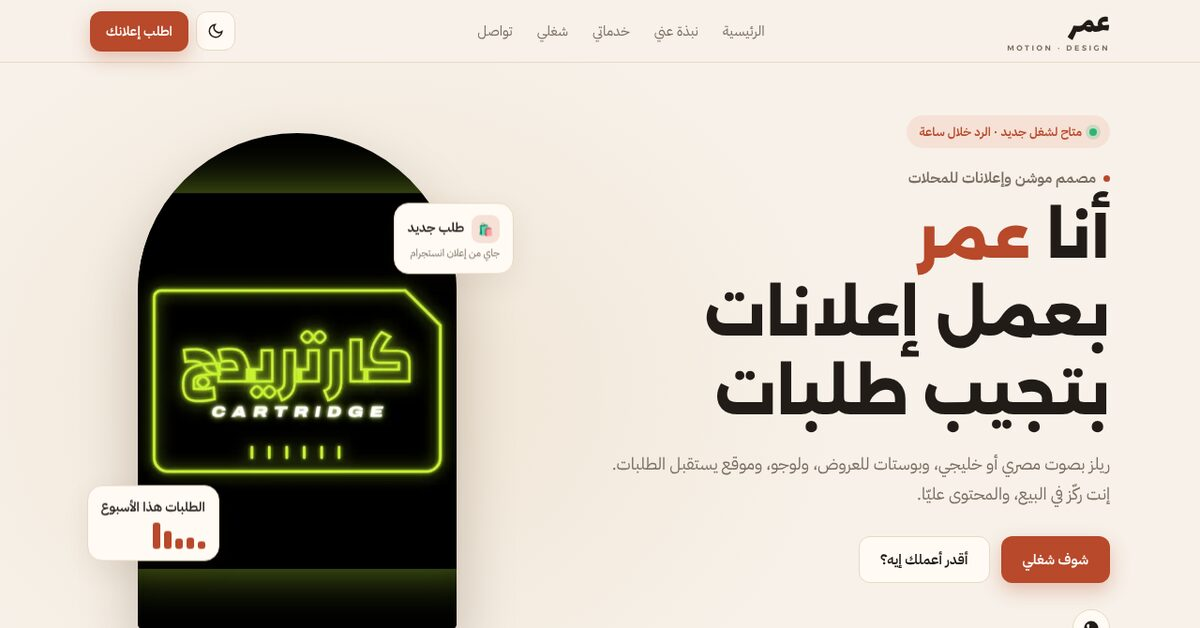
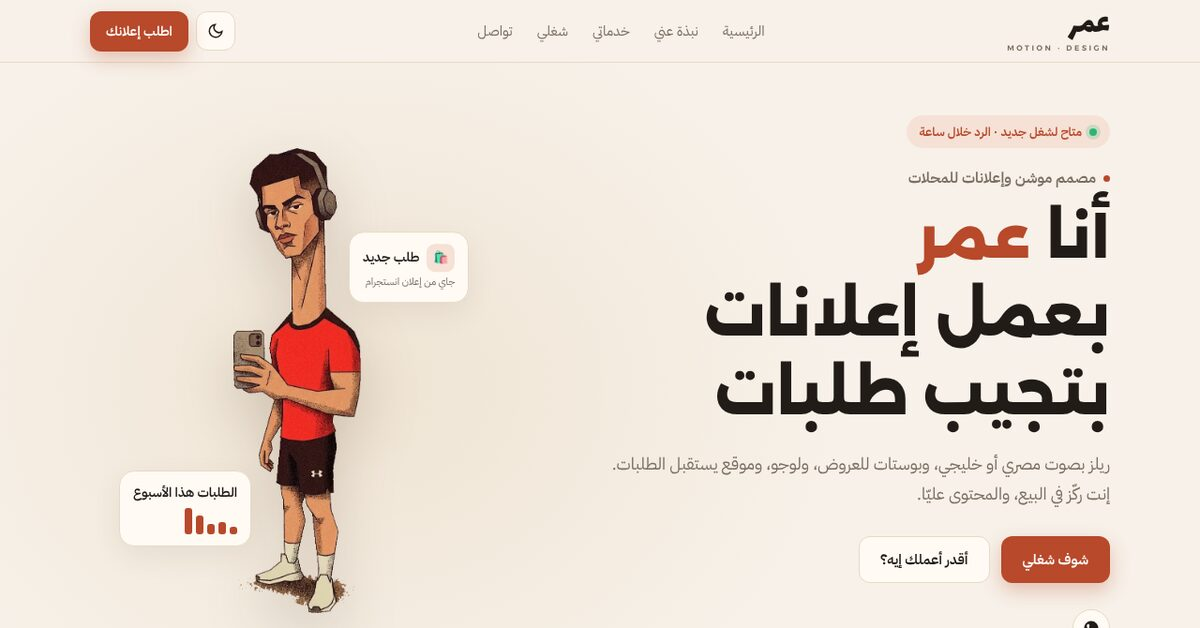
Hero illustration, remove Cartridge, GSAP scroll animations
Claude-Session: https://claude.ai/code/session_019beVw9BJW4JLDpa1uNJkmd

Changed region(s): [[0.0617, 0.2118, 0.4317, 1.0]]

diff --git a/index.html b/index.html
@@ -71,6 +71,7 @@ nav .wrap{display:flex;align-items:center;justify-content:space-between;height:6
 .role{color:var(--mute);font-weight:600;margin-bottom:6px;display:flex;align-items:center;gap:8px}
 .role::before{content:"";width:7px;height:7px;border-radius:50%;background:var(--acc)}
 .hero h1{font-size:clamp(36px,7.5vw,64px);margin-bottom:18px}
+.hero h1 .ln{display:inline-block}
 .hero h1 em{font-style:normal;color:var(--acc)}
 .hero p.lead{color:var(--mute);font-size:clamp(16px,2.3vw,18px);max-width:560px;margin-bottom:28px}
 .cta{display:flex;flex-wrap:wrap;gap:12px}
@@ -79,17 +80,17 @@ nav .wrap{display:flex;align-items:center;justify-content:space-between;height:6
 .social svg{width:18px;height:18px}
 
 .visual{position:relative;justify-self:center;width:min(340px,82vw)}
-.arch{aspect-ratio:9/14;border-radius:999px 999px 28px 28px;overflow:hidden;background:#111;box-shadow:0 30px 60px rgba(60,30,10,.25)}
-.arch video{width:100%;height:100%;object-fit:cover}
+.me{display:flex;justify-content:center;height:clamp(420px,62vh,600px);will-change:transform}
+.me img{height:100%;width:auto;filter:drop-shadow(0 24px 30px rgba(60,30,10,.18))}
 .float{position:absolute;background:var(--card);border:1px solid var(--line);border-radius:16px;box-shadow:var(--shadow);padding:12px 14px;font-size:13px;line-height:1.5}
 .float b{display:block;font-size:14px}
-.f1{top:16%;right:-18%;animation:bob 5s ease-in-out infinite}
-.f2{bottom:12%;left:-16%;animation:bob 6s ease-in-out infinite reverse}
+.f1{top:20%;right:-4%}
+.f2{bottom:16%;left:-6%}
 .f1 .dot{display:inline-grid;place-items:center;width:30px;height:30px;border-radius:9px;background:var(--acc2);margin-left:8px;vertical-align:middle}
 .f2 .bars{display:flex;gap:4px;align-items:end;height:28px;margin-top:6px}
 .f2 .bars span{width:8px;border-radius:3px;background:var(--acc)}
 @keyframes bob{50%{transform:translateY(-10px)}}
-@media(max-width:480px){.f1{right:-6%}.f2{left:-6%}}
+@media(max-width:480px){.f1{right:0}.f2{left:0}}
 
 /* about */
 .about{display:grid;grid-template-columns:1.1fr .9fr;gap:48px;align-items:start}
@@ -159,14 +160,8 @@ nav .wrap{display:flex;align-items:center;justify-content:space-between;height:6
 .stats b{display:block;font:800 36px/1.2 Alexandria;color:var(--acc)}
 .stats span{color:var(--mute);font-size:14px}
 
-.arch.neon{background:#000;display:grid;place-items:center}
-.arch.neon img{width:118%;max-width:none;filter:drop-shadow(0 0 18px rgba(200,255,60,.35));animation:glow 3s ease-in-out infinite}
-@keyframes glow{50%{filter:drop-shadow(0 0 32px rgba(200,255,60,.6))}}
 .proj.feature{margin-top:18px}
 .projects{margin-top:32px}
-.logos3{display:grid;grid-template-columns:repeat(4,1fr);gap:14px;margin-top:14px}
-.logos3 img{border-radius:18px;background:#000;aspect-ratio:1;object-fit:cover}
-@media(max-width:700px){.logos3{grid-template-columns:repeat(2,1fr);gap:10px}}
 /* contact */
 .contact{display:grid;grid-template-columns:.9fr 1.1fr;gap:40px;background:var(--card);border:1px solid var(--line);border-radius:24px;padding:36px;box-shadow:var(--shadow)}
 @media(max-width:860px){.contact{grid-template-columns:1fr;padding:24px;gap:24px}}
@@ -209,20 +204,20 @@ footer p{width:100%;font-size:13px;opacity:.75;border-top:1px solid rgba(255,255
 <header class="hero">
   <div class="wrap">
     <div>
-      <span class="pill"><i></i>متاح لشغل جديد · الرد خلال ساعة</span>
-      <div class="role">مصمم موشن وإعلانات للمحلات</div>
-      <h1>أنا <em>عمر</em><br>بعمل إعلانات بتجيب طلبات</h1>
-      <p class="lead">ريلز بصوت مصري أو خليجي، وبوستات للعروض، ولوجو، وموقع يستقبل الطلبات. إنت ركّز في البيع، والمحتوى عليّا.</p>
-      <div class="cta">
+      <span class="pill hx"><i></i>متاح لشغل جديد · الرد خلال ساعة</span>
+      <div class="role hx">مصمم موشن وإعلانات للمحلات</div>
+      <h1 class="hx"><span class="ln">أنا <em>عمر</em></span><br><span class="ln">بعمل إعلانات</span><br><span class="ln">بتجيب طلبات</span></h1>
+      <p class="lead hx">ريلز بصوت مصري أو خليجي، وبوستات للعروض، ولوجو، وموقع يستقبل الطلبات. إنت ركّز في البيع، والمحتوى عليّا.</p>
+      <div class="cta hx">
         <a class="btn btn-acc" href="#work">شوف شغلي</a>
         <a class="btn btn-line" href="#services">أقدر أعملك إيه؟</a>
       </div>
-      <div class="social">
+      <div class="social hx">
         <a data-wa href="#" aria-label="واتساب"><svg><use href="#wa"/></svg></a>
       </div>
     </div>
     <div class="visual">
-      <div class="arch neon"><img src="m/cart-e.webp" alt="لوجو كارتريدج"></div>
+      <div class="me"><img src="m/me.webp" alt="عمر"></div>
       <div class="float f1"><span class="dot">🛍</span><b style="display:inline">طلب جديد</b><br><small style="color:var(--mute)">جاي من إعلان انستجرام</small></div>
       <div class="float f2"><b>الطلبات هذا الأسبوع</b><div class="bars"><span style="height:30%"></span><span style="height:45%"></span><span style="height:40%"></span><span style="height:70%"></span><span style="height:100%"></span></div></div>
     </div>
@@ -240,9 +235,8 @@ footer p{width:100%;font-size:13px;opacity:.75;border-top:1px solid rgba(255,255
     </div>
     <div class="timeline reveal">
       <div><div><b>طيف للعطور</b><small>ريلز، بوستات، لوجو، وموقع متجر كامل</small></div><span>01</span></div>
-      <div><div><b>كارتريدج</b><small>لوجو وهوية لمحل ألعاب فيديو</small></div><span>02</span></div>
-      <div><div><b>إعلانات بصوت</b><small>صوت مصري وسعودي، ومزيكا ومؤثرات</small></div><span>03</span></div>
-      <div><div><b>متاح دلوقتي</b><small>لمحلات العطور والكافيهات والمطاعم والبراندات الصغيرة</small></div><span>04</span></div>
+      <div><div><b>إعلانات بصوت</b><small>صوت مصري وسعودي، ومزيكا ومؤثرات</small></div><span>02</span></div>
+      <div><div><b>متاح دلوقتي</b><small>لمحلات العطور والكافيهات والمطاعم والبراندات الصغيرة</small></div><span>03</span></div>
     </div>
   </div>
 </section>
@@ -314,18 +308,6 @@ footer p{width:100%;font-size:13px;opacity:.75;border-top:1px solid rgba(255,255
         <div class="chips"><span>موبايل أولًا</span><span>عربي وإنجليزي</span><span>استضافة ببلاش</span></div>
         <a class="link" href="https://omaraboeldahab09.github.io/perfumebytaif/" target="_blank" rel="noopener">افتح الموقع ↗</a></div>
     </article>
-    <article class="proj feature reveal">
-      <div class="media" style="background:#000"><img src="m/logo-cartridge.webp" alt="اتجاهات لوجو كارتريدج" style="aspect-ratio:3/1;object-fit:contain"></div>
-      <div class="body"><span class="tag">لوجو وهوية · كارتريدج</span><h3>كارتريدج، محل ألعاب فيديو</h3>
-        <p>اتجاهات مختلفة للوجو بالعربي والإنجليزي: نيون، وبيكسل، وشكل كارت الألعاب القديم. كلها بنفس اللون الأخضر الفسفوري عشان المحل يتعرف من بعيد.</p>
-        <div class="chips"><span>لوجو</span><span>هوية بصرية</span><span>عربي وإنجليزي</span></div></div>
-    </article>
-    <div class="logos3">
-      <img class="reveal" src="m/cart-e.webp" alt="لوجو كارتريدج نيون">
-      <img class="reveal" src="m/cart-b.webp" alt="لوجو كارتريدج على شكل كارت">
-      <img class="reveal" src="m/cart-d.webp" alt="لوجو كارتريدج عريض">
-      <img class="reveal" src="m/cart-f.webp" alt="لوجو كارتريدج بيكسل">
-    </div>
   </div>
 </section>
 
@@ -391,10 +373,51 @@ document.querySelectorAll(".proj .media.v").forEach(m=>{
 });
 
 /* reveal + to-top */
-const io=new IntersectionObserver(es=>es.forEach(e=>{ if(e.isIntersecting){e.target.classList.add("in");io.unobserve(e.target);} }),{threshold:.12});
-document.querySelectorAll(".reveal").forEach(el=>io.observe(el));
 const toTop=document.querySelector(".top");
 addEventListener("scroll",()=>toTop.classList.toggle("show",scrollY>600),{passive:true});
+</script>
+<script src="https://cdnjs.cloudflare.com/ajax/libs/gsap/3.12.5/gsap.min.js"></script>
+<script src="https://cdnjs.cloudflare.com/ajax/libs/gsap/3.12.5/ScrollTrigger.min.js"></script>
+<script>
+(function(){
+  const reveals=document.querySelectorAll(".reveal");
+  if(!window.gsap||!window.ScrollTrigger){ reveals.forEach(e=>e.classList.add("in")); return; }
+  gsap.registerPlugin(ScrollTrigger);
+  const mm=gsap.matchMedia();
+  mm.add("(prefers-reduced-motion: reduce)",()=>{ reveals.forEach(e=>e.classList.add("in")); });
+  mm.add("(prefers-reduced-motion: no-preference)",()=>{
+    // CSS reveal hands over to GSAP
+    reveals.forEach(e=>{ e.style.transition="none"; e.classList.add("in"); });
+    gsap.set(reveals,{autoAlpha:0,y:40});
+
+    // hero intro
+    const tl=gsap.timeline({defaults:{ease:"power3.out",duration:.8}});
+    tl.from(".hero .pill,.hero .role",{autoAlpha:0,y:20,stagger:.1})
+      .from(".hero h1 .ln",{autoAlpha:0,y:50,stagger:.12,duration:.9},"-=.4")
+      .from(".hero .lead,.hero .cta,.hero .social",{autoAlpha:0,y:24,stagger:.1},"-=.5")
+      .from(".me img",{autoAlpha:0,y:80,scale:.94,duration:1.1,ease:"expo.out"},.2)
+      .from(".f1,.f2",{autoAlpha:0,scale:.6,stagger:.15,ease:"back.out(1.8)",duration:.7},"-=.5")
+      .from(".f2 .bars span",{scaleY:0,transformOrigin:"bottom",stagger:.08,duration:.5},"-=.3");
+
+    // idle float
+    gsap.to(".f1",{y:-10,duration:2.4,repeat:-1,yoyo:true,ease:"sine.inOut",delay:1.6});
+    gsap.to(".f2",{y:10,duration:2.8,repeat:-1,yoyo:true,ease:"sine.inOut",delay:1.8});
+
+    // parallax on scroll
+    gsap.to(".me",{y:-60,ease:"none",scrollTrigger:{trigger:".hero",start:"top top",end:"bottom top",scrub:1}});
+    gsap.to(".f1",{x:30,ease:"none",scrollTrigger:{trigger:".hero",start:"top top",end:"bottom top",scrub:1}});
+    gsap.to(".f2",{x:-30,ease:"none",scrollTrigger:{trigger:".hero",start:"top top",end:"bottom top",scrub:1}});
+
+    // section headings
+    gsap.utils.toArray("section .h2").forEach(h=>gsap.from(h,{autoAlpha:0,y:30,duration:.8,ease:"power3.out",scrollTrigger:{trigger:h,start:"top 88%",once:true}}));
+
+    // cards in batches
+    ScrollTrigger.batch(reveals,{start:"top 90%",once:true,
+      onEnter:b=>gsap.to(b,{autoAlpha:1,y:0,stagger:.12,duration:.8,ease:"power3.out",overwrite:true})});
+
+    addEventListener("load",()=>ScrollTrigger.refresh());
+  });
+})();
 </script>
 </body>
 </html>
